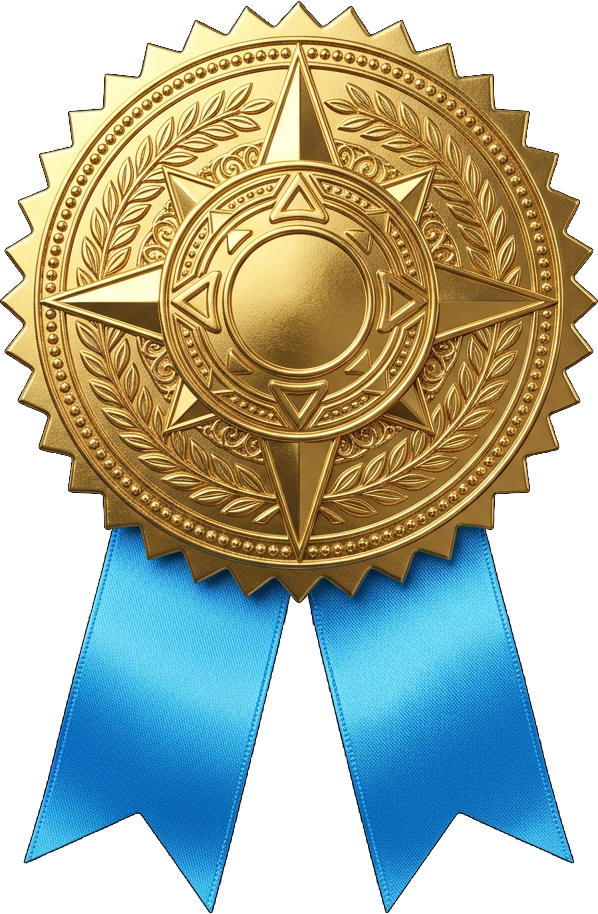
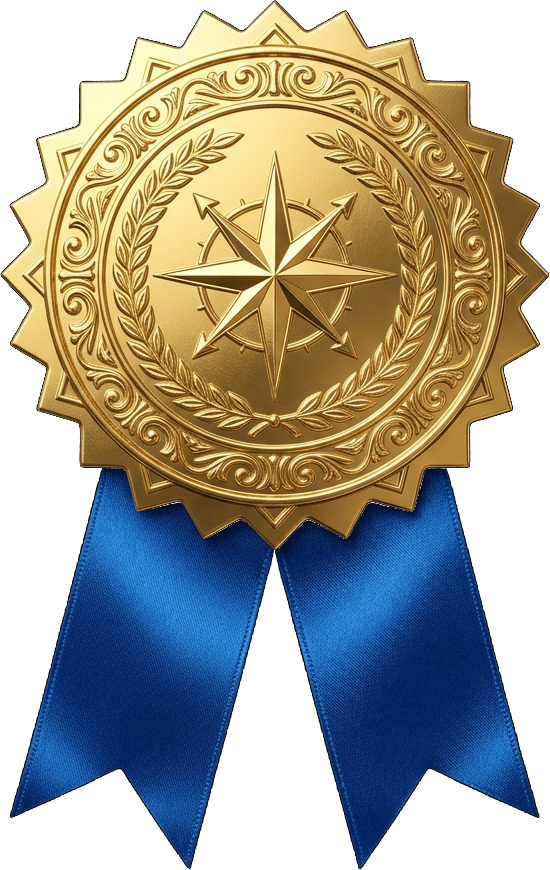
Update certificate ribbon to Option 1 with rich blue #0059bf tails

diff --git a/public/js/certificate.js b/public/js/certificate.js
@@ -77,8 +77,8 @@ const CertEngine = (function() {
     const w = 260;
     const h = Math.round(w * (ribbon.naturalHeight || ribbon.height) / (ribbon.naturalWidth || ribbon.width));
     const pasteX = Math.round(1280 - w / 2);
-    // Align circular seal center at Y=1475 (offset is ~0.323 of total height)
-    const pasteY = Math.round(1475 - 0.323 * h);
+    // Align circular seal center at Y=1475 (offset is ~0.316 of total height)
+    const pasteY = Math.round(1475 - 0.316 * h);
     ctx.drawImage(ribbon, pasteX, pasteY, w, h);
   }
 
